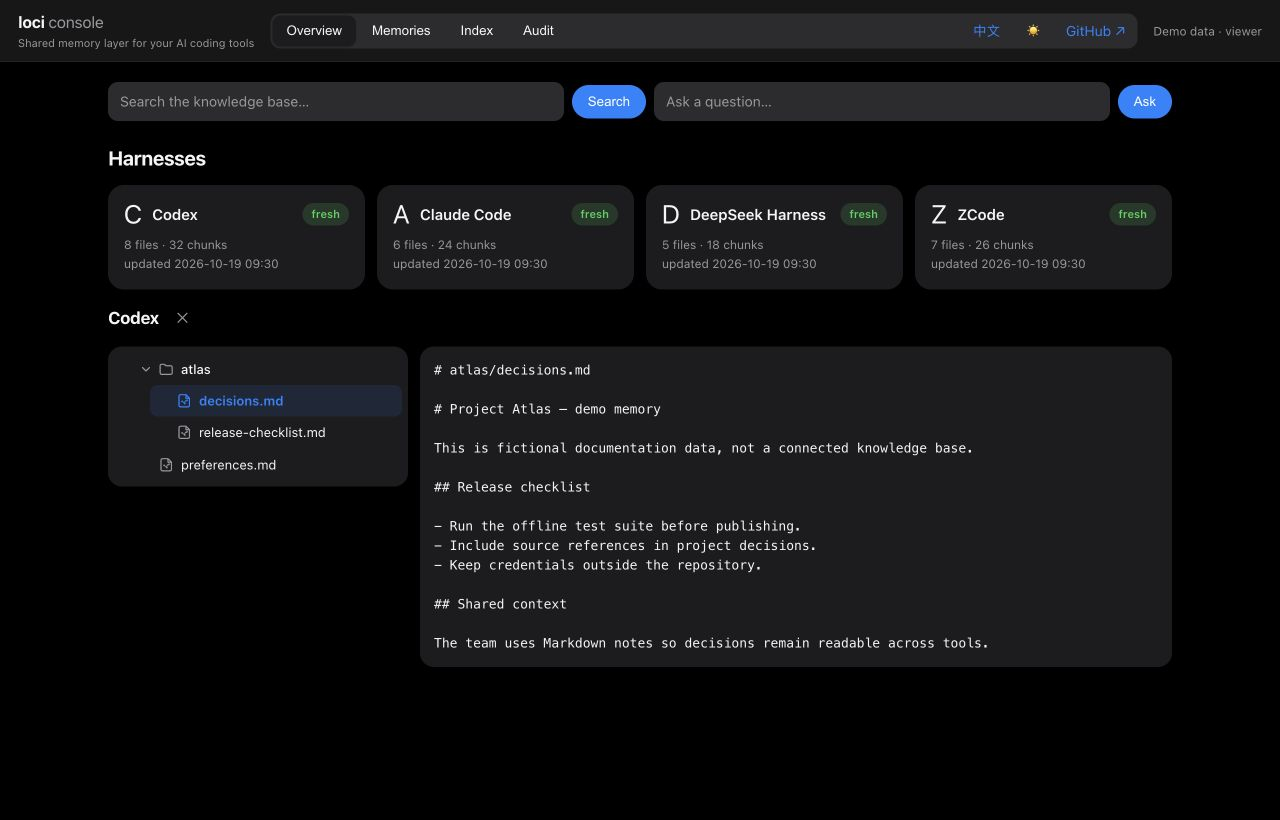
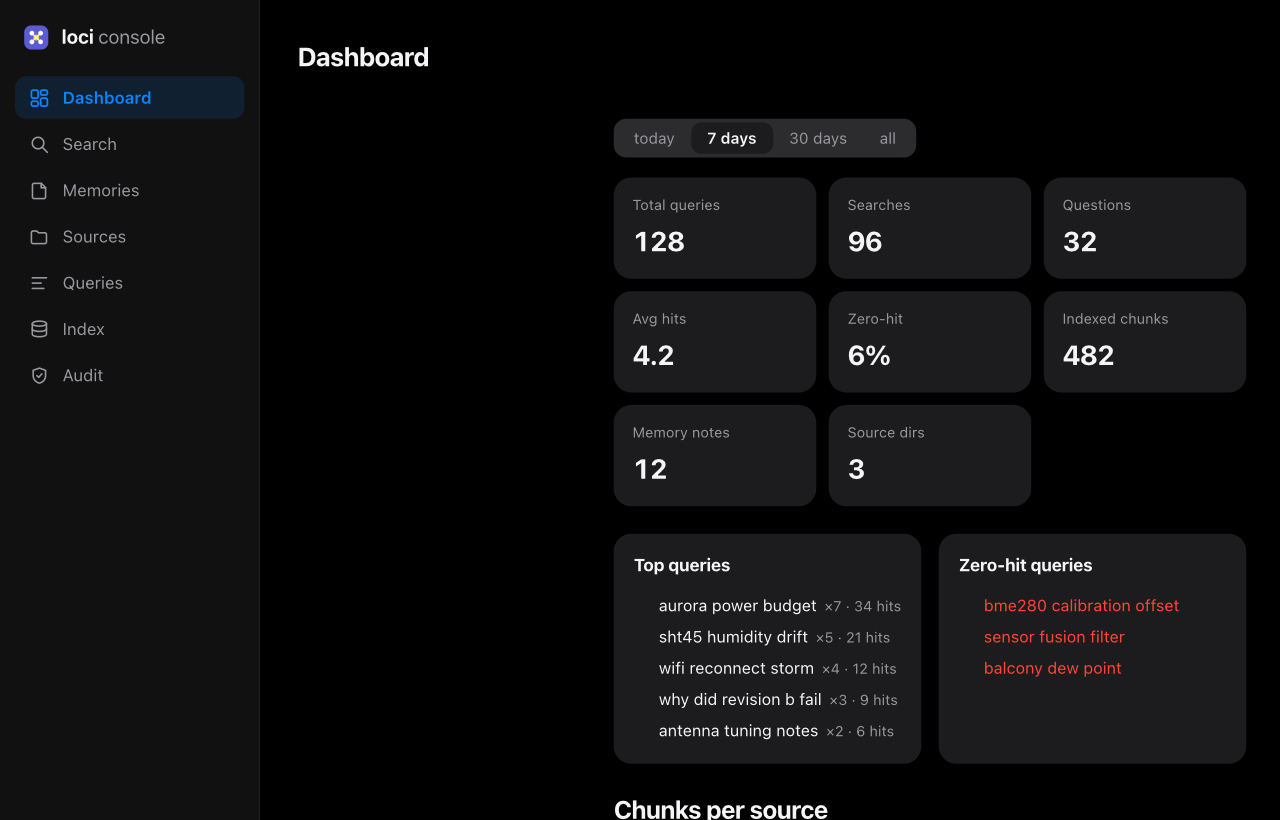
docs: README screenshots show the console that actually ships (#21)
The light/dark console images were still the old top-tabs layout, so the first
thing a visitor saw did not match the product — the worst possible first
impression right after the project got passed around.

Both are regenerated at 1280×820 from a static fixture that imports the real
`style.css` and reproduces the real markup: sidebar, range filter, stat cards,
top queries, zero-hit queries, chunks per source, activity strip.

SCREENSHOTS.md says plainly how they were made and what that misses: they are
rendered from the stylesheet, not captured from a live browser (no headless
browser on the machine that regenerated them), so only the Dashboard tab is
shown, and `app.js` does not run. The repro instructions for a proper capture
are unchanged.

diff --git a/docs/assets/SCREENSHOTS.md b/docs/assets/SCREENSHOTS.md
@@ -1,22 +1,30 @@
 # Console documentation screenshot
 
-`console-demo-light.png` shows the real checked-in console UI, served by
-`scripts/preview_console.py` with fixed, fictional fixtures. The screenshot
-includes a file tree and a fictional Project Atlas note.
+`console-demo-light.png` and `console-demo-dark.png` show the **Dashboard** tab
+of the current console: the left sidebar (Dashboard / Search / Memories /
+Sources / Queries / Index / Audit), the range filter, the stat cards, top
+queries, zero-hit queries, chunks per source and the 14-day activity strip.
+
+Both are rendered from a static fixture page that imports the console's real
+`style.css` and reproduces its real markup — the classes, spacing and colours
+are the shipped ones, not a mock-up. The fixture data is fictional: 128
+queries, 482 chunks, an "aurora" sensor project, three source directories.
 
 No production server, local config, personal memory, credential or vector
-index is used. Counts and timestamps are illustrative, not benchmark evidence.
-The preview does not import loci's configuration/database/model code; write
-and model endpoints are disabled.
+index is involved. Counts and timestamps are illustrative, not benchmark
+evidence.
 
-To reproduce:
+**Known limitation:** these are rendered from the stylesheet rather than
+captured from a live browser session (the machine that regenerated them has no
+headless browser). Because `app.js` does not run, only the Dashboard tab is
+shown; the other tabs need a real browser to capture. If you regenerate them
+properly, use:
 
 ```bash
 python scripts/preview_console.py --port 8877
 ```
 
-Open `http://127.0.0.1:8877/ui`, switch to English, click the Codex card and
-select `atlas/decisions.md`. Capture the console with the demo label visible.
+Open `http://127.0.0.1:8877/ui`, switch to English, then capture at 1280×820.
 The console itself currently supports English and Simplified Chinese; README
 translations do not imply additional UI language support.
 
